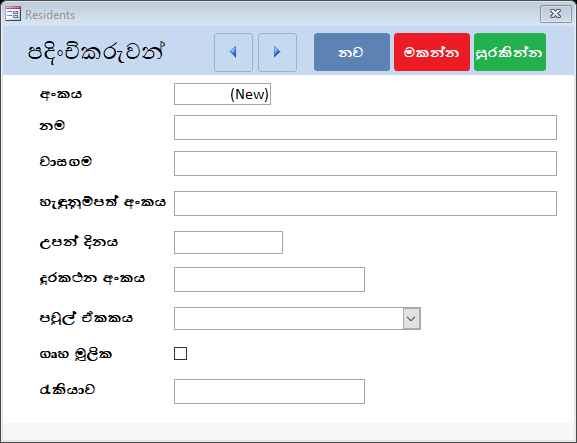
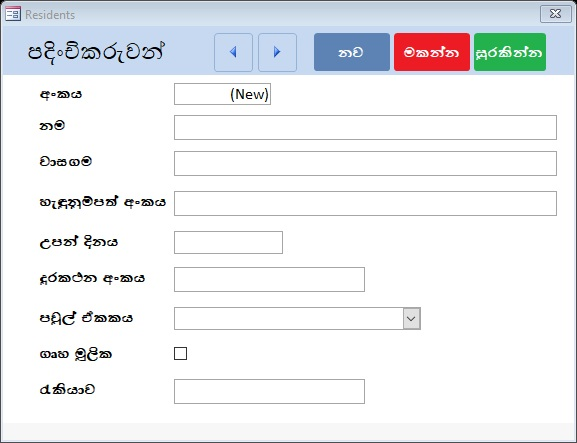
Change image type

diff --git a/docs/user_documentation.html b/docs/user_documentation.html
@@ -18,7 +18,7 @@
 
 <p>&nbsp;</p>
 
-<p style="margin-left:240px"><a href="user_documentation_files/image001.JPG"><img alt="" src="user_documentation_files/image001.JPG?w=624" style="height:419px; width:663px" /></a></p>
+<p style="margin-left:240px"><a href="user_documentation_files/image001.png"><img alt="" src="user_documentation_files/image001.png?w=624" style="height:419px; width:663px" /></a></p>
 
 <ul>
 	<li><span style="font-size:20px">පලමුව ඔබ කල යුත්තෙ ඉහත රූපයේ පරදි ඔබේ ග්&zwj;රාම නිලධාරී කොට්ඨාසයට සම්බන්ධ මූලික තොරතුරු ඇතුලත් කර සුරකින්න බොත්තම එබීමයි.</span></li>
@@ -27,7 +27,7 @@
 	<li><span style="font-size:20px">මෙම තොරතුරු පද්ධතිය භාවිතා කරන සෑම අවස්ථාවකදීම කිසියම් හෝ එම අවස්ථාව ට අයත් ගැටලුවක් තිබේ නම් පහත පෙන්වා දී ඇති පරදි අතුරු මුහුනතේ සදහන්&nbsp;<strong>සහය</strong>&nbsp;යන බොත්තම එබීම තුලින් සහය ලිපිගොනුවෙ සදහන් ගැටලුවට අවශ්&zwj;ය සහය වෙත පිවිසිය හැක.</span></li>
 </ul>
 
-<p style="margin-left:440px"><a href="user_documentation_files/image017.JPG"><img alt="" src="user_documentation_files/image017.JPG?w=211" style="height:143px; width:321px" /></a></p>
+<p style="margin-left:440px"><a href="user_documentation_files/image017.png"><img alt="" src="user_documentation_files/image017.png?w=211" style="height:143px; width:321px" /></a></p>
 
 <p style="margin-left:440px">&nbsp;</p>
 <p>&nbsp;</p>
@@ -38,7 +38,7 @@
 	<li><span style="font-size:20px">දෙවනුව නව පදිංචිකරුවෙක් දත්ත ගබඩාවට ඇතුලත් කිරීම සදහා නව පදිංචිකරුවෙක් යන බොත්තම ඔබන්න.</span></li>
 </ul>
 
-<p style="margin-left:280px"><a href="user_documentation_files/image002.JPG"><img alt="" src="user_documentation_files/image002.JPG?w=577" style="height:497px; width:647px" /></a></p>
+<p style="margin-left:280px"><a href="user_documentation_files/image002.png"><img alt="" src="user_documentation_files/image002.png?w=577" style="height:497px; width:647px" /></a></p>
 
 <ul>
 	<li><span style="font-size:20px">නම ,වාසගම ඇතුලු ඕනෑම තොරතුරක් සින්හලෙන් හෝ ඉංග්&zwj;රීසියෙන් ඇතුලත් කල හැක.</span></li>
@@ -46,35 +46,35 @@
 	<li><span style="font-size:20px">උපන්දිනය අනිවාර්ය වේ. නැතහොත් සුරැකිය නොහැක. උපන්දිනය ඇතුලත් කිරීමේදි පහත අතුරු මුහුනතෙන් දක්වා ඇති ආකාරයට ඇතුලත් කල හැක.</span></li>
 </ul>
 
-<p style="margin-left:240px"><a href="user_documentation_files/image003.JPG"><img alt="" src="user_documentation_files/image003.JPG?w=705" /></a></p>
+<p style="margin-left:240px"><a href="user_documentation_files/image003.png"><img alt="" src="user_documentation_files/image003.png?w=705" /></a></p>
 
 <ul>
 	<li><span style="font-size:20px"><strong>එසේ ඇතුලත් කර ඊට පහතින් ඇති ජංගම දුරකතන අංකය යෙදීම සදහා ඇති කොටුව සිලෙක්ට් කිරීමේදි උපන්දිනය පහත සදහන් ආකාරයට පිලිවලට දිස් වේ.</strong></span></li>
 </ul>
 
-<p style="margin-left:240px"><a href="user_documentation_files/image004.JPG"><img alt="" src="user_documentation_files/image004.JPG?w=624" style="height:440px; width:697px" /></a></p>
+<p style="margin-left:240px"><a href="user_documentation_files/image004.png"><img alt="" src="user_documentation_files/image004.png?w=624" style="height:440px; width:697px" /></a></p>
 
 <ul>
 	<li><span style="font-size:20px">දුරකථන අංකය ටයිප් කිරීමේදි අංක වෙන් කිරීමකින් තොරව පහත අතුරුමුහුනතේ දක්වා ඇති ආකරයට ටයිප් කරන්න.</span></li>
 </ul>
 
-<p style="margin-left:240px"><a href="user_documentation_files/image006.JPG"><img alt="" src="user_documentation_files/image006.JPG?w=776" style="height:464px; width:695px" /></a></p>
+<p style="margin-left:240px"><a href="user_documentation_files/image006.png"><img alt="" src="user_documentation_files/image006.png?w=776" style="height:464px; width:695px" /></a></p>
 
 <ul>
 	<li><span style="font-size:20px"><strong>ඔබ විසින් ඇතුලත් කරන පුද්ගලයා අයත් පවුල් ඒකකය පිලිබදව පෙර අවස්තාවකදී දත්ත ගබඩාවට ඇතුලත් කර නොමැති නම් මේ තුලින් ඔහු අයත් පවුල් ඒකකය ඇතුලත් කල නොහැක.</strong></span></li>
 	<li><span style="font-size:20px"><strong>පෙර ඇතුලත් කල පවුල් ඒකක අතුරුමුහුනතේ දැක්වෙන ආකාරයට පහලට ඇති ඊතලය click කිරීමෙන් තෝරා ගත හැක.අදාල පවුල් ඒකකය තේරීමෙන් පසු එය ඊට අදාල අංකය මගින් පෙන්වා දේ.</strong></span></li>
 </ul>
 
-<p style="margin-left:280px"><a href="user_documentation_files/image007.JPG"><img alt="" src="user_documentation_files/image007.JPG?w=624" style="height:423px; width:633px" /></a></p>
+<p style="margin-left:280px"><a href="user_documentation_files/image007.png"><img alt="" src="user_documentation_files/image007.png?w=624" style="height:423px; width:633px" /></a></p>
 
-<p style="margin-left:280px"><a href="user_documentation_files/image008.jpg"><img alt="" src="user_documentation_files/image008.JPG?w=807" style="height:422px; width:652px" /></a></p>
+<p style="margin-left:280px"><a href="user_documentation_files/image008.png"><img alt="" src="user_documentation_files/image008.png?w=807" style="height:422px; width:652px" /></a></p>
 
 <ul>
 	<li><span style="font-size:20px"><strong>එසේ ඔහු අයත් පවුල් ඒකකය ඇතුලත් කර නොමැති නම් &rdquo; පවුල් ඒකකය &rdquo; යන්න හිස්ව තබා එය පසුව ඇතුලත් කරන්න.</strong></span></li>
 	<li><span style="font-size:20px"><strong>ඇතුලත් කරන සාමාජිකයා ගෘහ මූලිකයෙක් නම් පමනක් ඉහත සදහන් ගෘහ මූලික යන කුඩා කොටුව ක්ලික් කරන්න. ගෘහ මූලික තත්වයෙන් ඉවත් කිරීම සදහා එම කොටුව නැවතවරක් ක්ලික් කරන්න.</strong></span></li>
 </ul>
 
-<p style="margin-left:280px"><a href="user_documentation_files/image010.JPG"><img alt="" src="user_documentation_files/image010.JPG?w=784" style="height:433px; width:655px" /></a></p>
+<p style="margin-left:280px"><a href="user_documentation_files/image010.png"><img alt="" src="user_documentation_files/image010.png?w=784" style="height:433px; width:655px" /></a></p>
 
 <p>&nbsp;</p>
 
@@ -82,7 +82,7 @@
 
 <p><span style="font-size:20px"><strong>පවුල් ඒකක බොත්තම එබීමෙන් පවුල් ඒකක ඇතුලත් කිරීමට අදාල පහත අතුරුමුහුනතට</strong>&nbsp;පිවිසිය හැක</span></p>
 
-<p style="margin-left:320px"><a href="user_documentation_files/image005.JPG"><img alt="" src="user_documentation_files/image005.JPG?w=602" style="height:467px; width:615px" /></a></p>
+<p style="margin-left:320px"><a href="user_documentation_files/image005.png"><img alt="" src="user_documentation_files/image005.png?w=602" style="height:467px; width:615px" /></a></p>
 
 <p>&nbsp;</p>
 
@@ -92,7 +92,7 @@
 	<li><span style="font-size:20px">උදාහරණයකට <strong>පහත සදහන් ආකාරයට&nbsp;</strong>පවුලේ නම කොටුව click කර පහළින් ඇති Search කොටුවේ ඔබට සෙවීමට අවශ්&zwj;ය පවුලේ නම සඳහන් කරන්න.</span></li>
 </ul>
 
-<p style="margin-left:320px"><img alt="" src="user_documentation_files/image013.JPG" style="height:565px; width:602px" /></p>
+<p style="margin-left:320px"><img alt="" src="user_documentation_files/image013.png" style="height:565px; width:602px" /></p>
 
 <p>&nbsp;</p>
 
@@ -101,7 +101,7 @@
 	<li><span style="font-size:20px">පවුල් ඒකක අතර මාරු වීමට පහත අතුරු මුහුනතෙ සදහන් ඊතල යොදා ගන්න</span></li>
 </ul>
 
-<p style="margin-left:320px"><span style="font-size:20px"><img alt="" src="user_documentation_files/image012.JPG" style="height:565px; width:602px" /></span></p>
+<p style="margin-left:320px"><span style="font-size:20px"><img alt="" src="user_documentation_files/image012.png" style="height:565px; width:602px" /></span></p>
 
 <h2 style="margin-left:280px" id="searchresidents"><span style="font-size:22px"><u><strong>දත්ත ගබඩාවට ඇලුතත් කල පදිංචිකරුවෙකු සෙවීම</strong></u></span></h2>
 
@@ -111,7 +111,7 @@
 
 <p>&nbsp;</p>
 
-<p style="margin-left:280px"><a href="user_documentation_files/image014.JPG"><img alt="" src="user_documentation_files/image014.JPG?w=602" style="height:462px; width:639px" /></a></p>
+<p style="margin-left:280px"><a href="user_documentation_files/image014.png"><img alt="" src="user_documentation_files/image014.png?w=602" style="height:462px; width:639px" /></a></p>
 
 <p>&nbsp;</p>
 
@@ -127,7 +127,7 @@
 	<li><span style="font-size:20px">පදිංචිකරුවෙකු දත්ත ගබඩාවෙන් ඉවත් කිරීම සදහා මකන්න යන බොත්තම එබීමෙන් පසු පහත ආකාරයේ කොටුවක් තුල &rdquo; Yes&rdquo; හෝ &ldquo;No&rdquo; යනුවෙන් විදානයක් ඉල්ල සිටියි.මකා දැමීම සදහා පහත රූපයේ පරදි&nbsp; &ldquo;Yes&rdquo; යනුවෙන් ලබා දිය යුතුය.</span></li>
 </ul>
 
-<p style="margin-left:280px"><a href="user_documentation_files/image015.JPG"><img alt="" src="user_documentation_files/image015.JPG?w=772" style="height:429px; width:639px" /></a></p>
+<p style="margin-left:280px"><a href="user_documentation_files/image015.png"><img alt="" src="user_documentation_files/image015.png?w=772" style="height:429px; width:639px" /></a></p>
 
 <p>&nbsp;</p>
 
@@ -135,7 +135,7 @@
 
 <p><span style="font-size:20px"><strong>වැඩසටහන්</strong>&nbsp;බොත්තම එබීමෙන් සුභසාධන වැඩසටහන් ඇතුලත් කරන අතුරු මුහුණත ලැබේ.</span></p>
 
-<p style="margin-left:240px"><a href="user_documentation_files/image016.JPG"><img alt="" src="user_documentation_files/image016.JPG?w=602" style="height:627px; width:668px" /></a></p>
+<p style="margin-left:240px"><a href="user_documentation_files/image016.png"><img alt="" src="user_documentation_files/image016.png?w=602" style="height:627px; width:668px" /></a></p>
 
 <p><strong>&nbsp;</strong></p>
 
@@ -151,7 +151,7 @@
 
 <p>&nbsp;</p>
 
-<p style="margin-left:280px"><span style="font-size:20px"><strong><img alt="" src="user_documentation_files/image011.JPG" /></strong></span></p>
+<p style="margin-left:280px"><span style="font-size:20px"><strong><img alt="" src="user_documentation_files/image011.png" /></strong></span></p>
 
 <p>&nbsp;</p>
 
